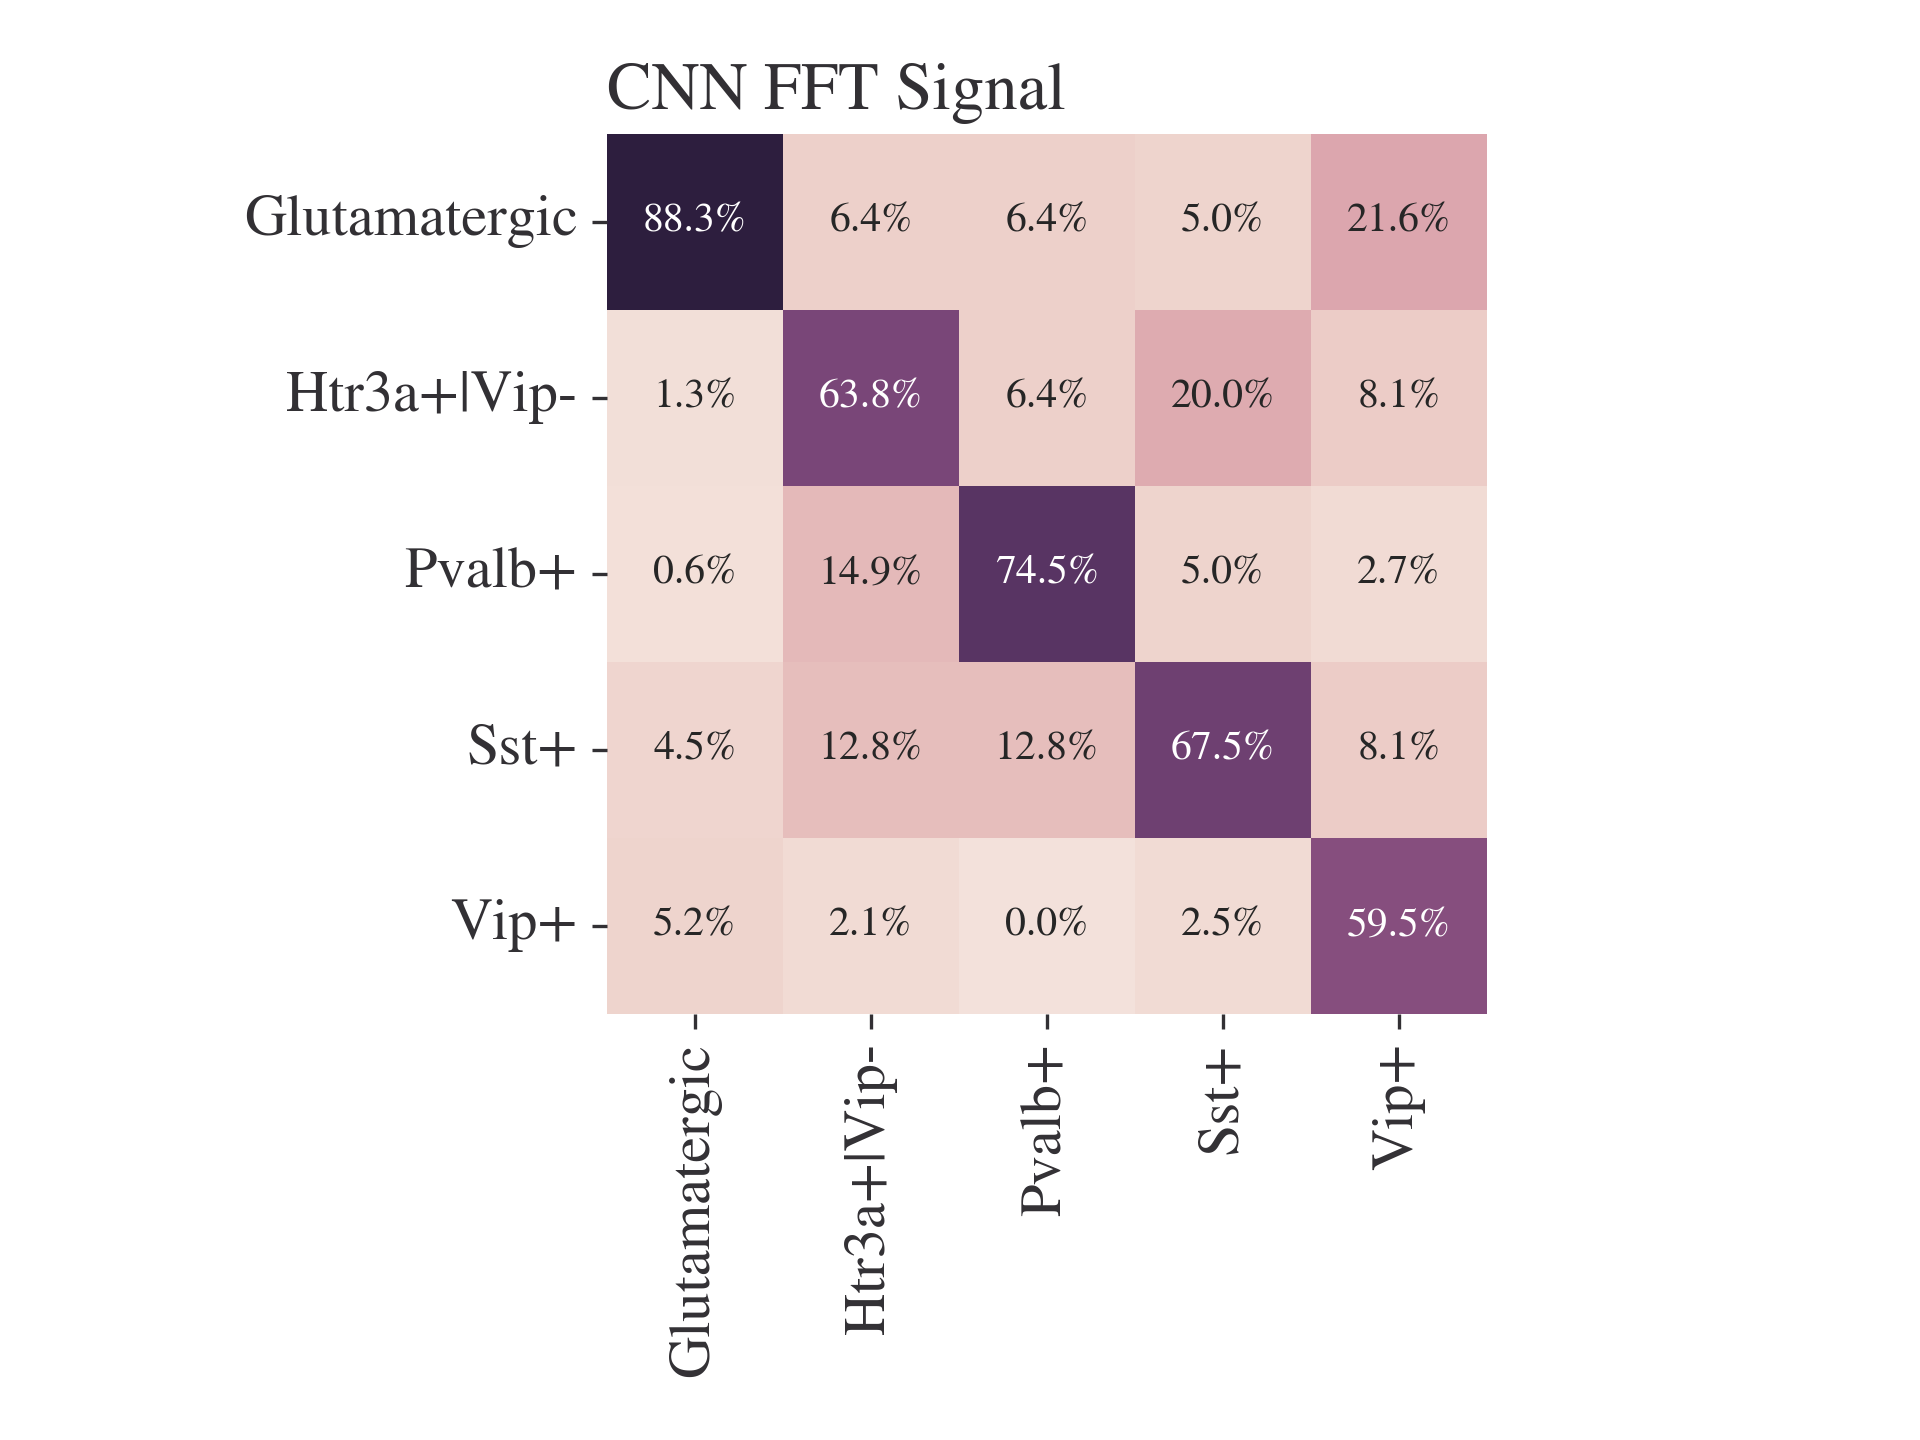
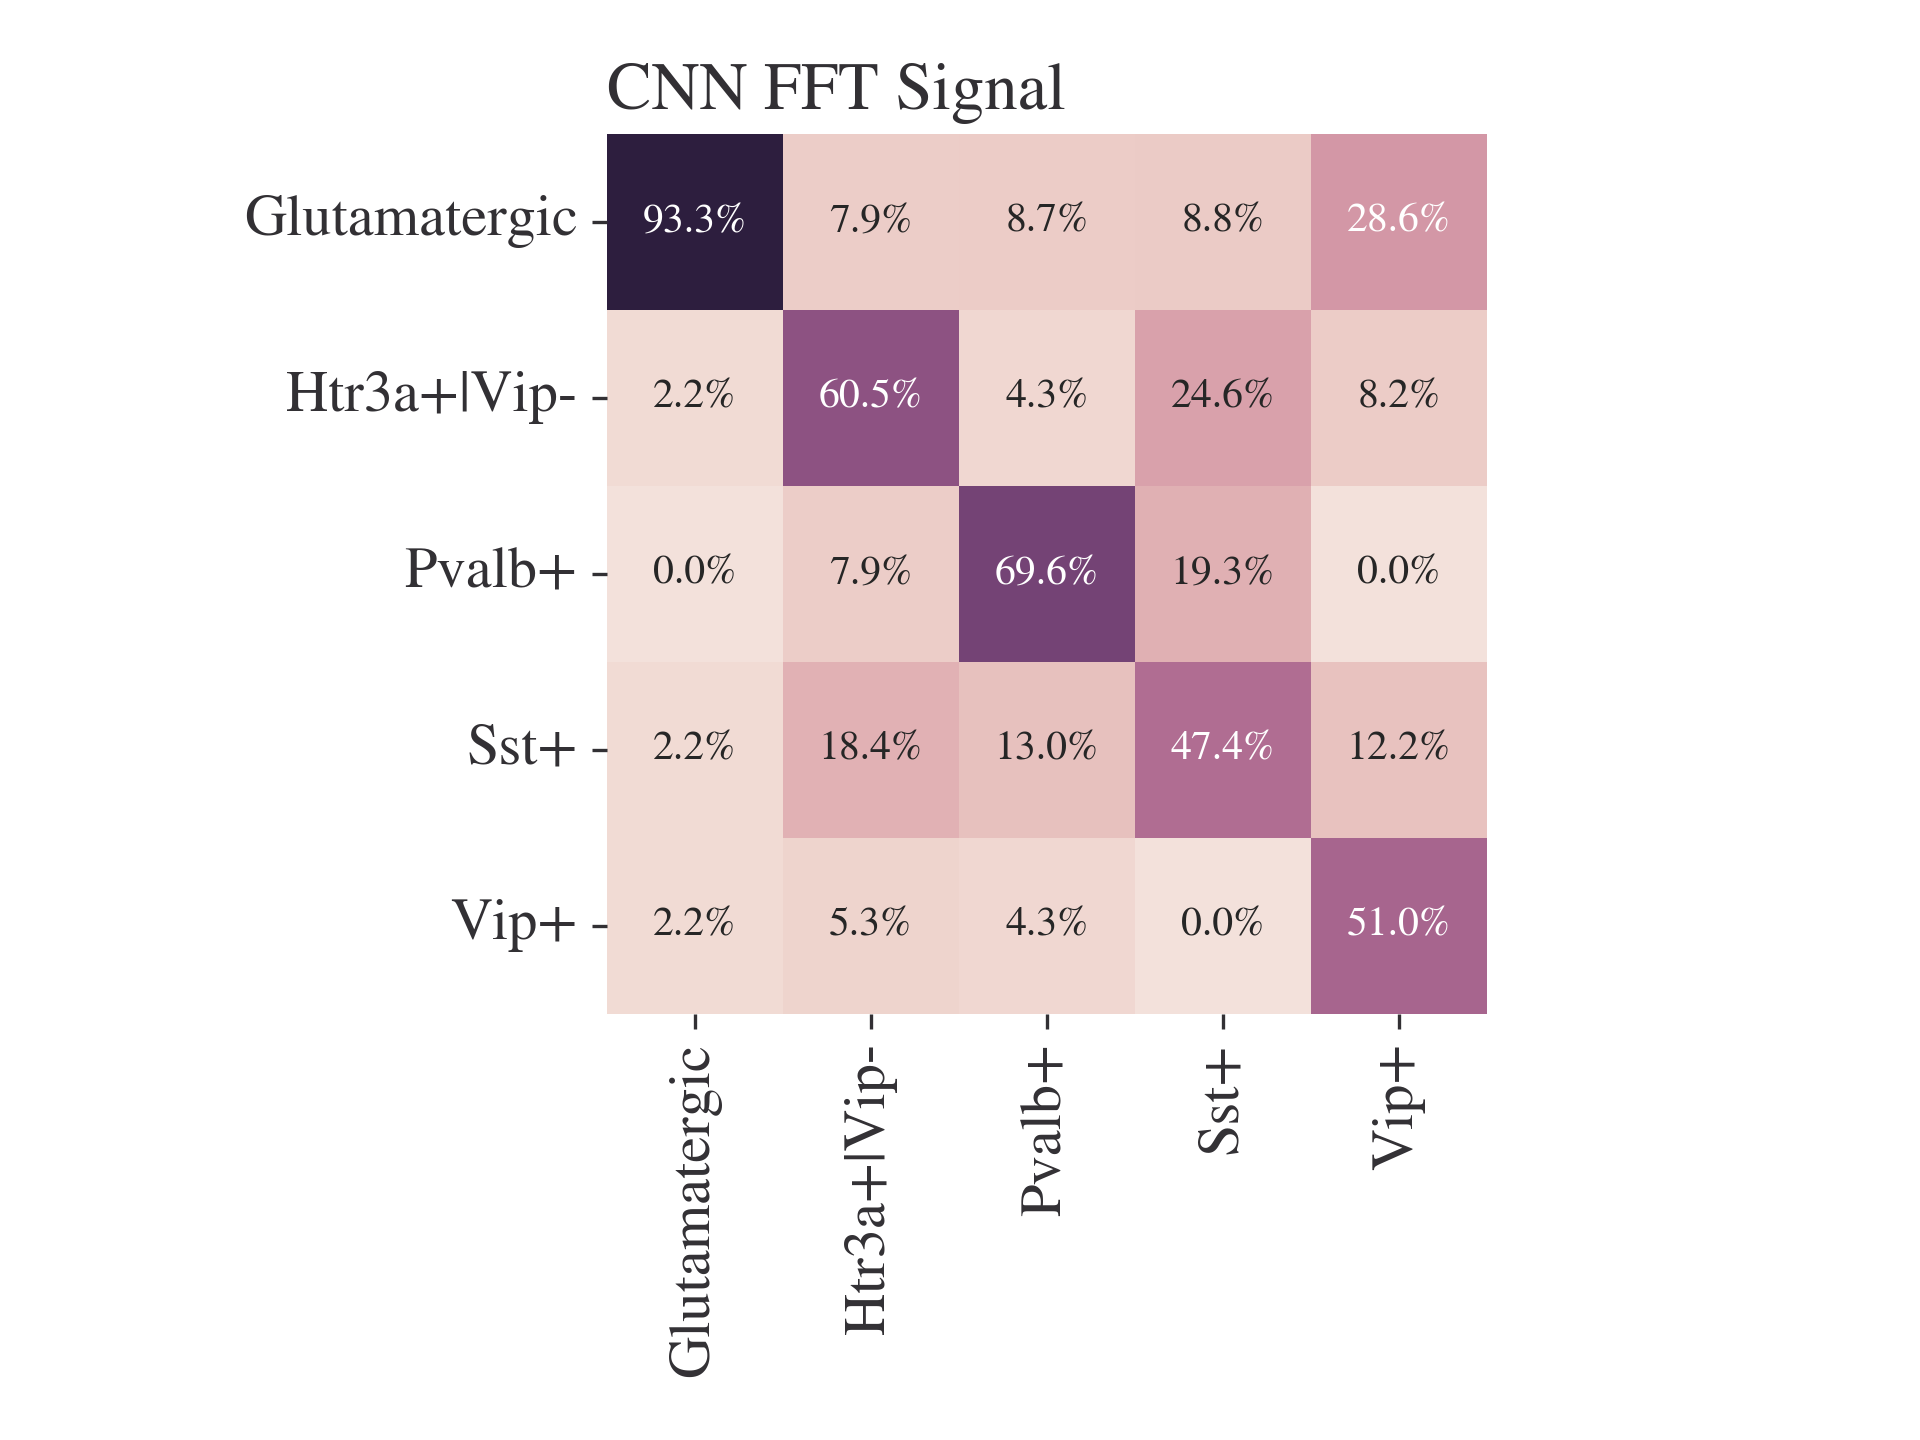
results for fft classification alone, 71.6% accuracy

diff --git a/single_spike_fft.py b/single_spike_fft.py
@@ -13,6 +13,7 @@ from sklearn.model_selection import train_test_split
 from sklearn.utils.class_weight import compute_class_weight
 from sklearn.metrics import confusion_matrix
 from keras.utils.np_utils import to_categorical
+from helper_functions import calculate_metrics_multiclass
 
 from gpu_check import get_device
 import warnings
@@ -35,7 +36,7 @@ class FrequencyAnalyzer:
     def __init__(self) -> None:
         self.x_train, self.x_test, self.y_train, self.y_test = self.process_data()
         self.model, self.best_model = self.create_model(), None
-        self.history = None
+        self.history, self.best_history = None, None
 
     @staticmethod
     def process_data(test_size: float = 0.2):
@@ -45,6 +46,7 @@ class FrequencyAnalyzer:
         labels = []
         for idx, directory in enumerate(directories):
             files = glob(data_path + directory + '/*')
+            files = sorted(files)
             arrays = [np.load(f) for f in files]
             for array in arrays:
                 if len(array) == 600:  # sampled at 200khz (before 2016)
@@ -108,7 +110,7 @@ class FrequencyAnalyzer:
 
         return Model(inputs=inputs, outputs=outputs)
 
-    def train_and_test(self, optimizer: str = 'adam', batch_size: int = 16,
+    def train(self, optimizer: str = 'adam', batch_size: int = 16,
                        epochs: int = 50):
         # compile the model
         self.model.compile(optimizer=optimizer,
@@ -117,12 +119,13 @@ class FrequencyAnalyzer:
 
         # create checkpoint so that the best epoch is saved
         checkpoint_filepath = '/tmp/checkpoint'
-        model_checkpoint_callback = tf.keras.callbacks.ModelCheckpoint(
+        checkpoint = tf.keras.callbacks.ModelCheckpoint(
             filepath=checkpoint_filepath,
             save_weights_only=True,
             monitor='val_accuracy',
             mode='max',
             save_best_only=True)
+        early_stopping = tf.keras.callbacks.EarlyStopping(monitor='val_loss', min_delta=0.00001, patience=15)
 
         # compute class weight
         y_integers = np.argmax(self.y_train, axis=1)
@@ -131,9 +134,9 @@ class FrequencyAnalyzer:
 
         # fit the model
         history = self.model.fit(x=self.x_train, y=self.y_train,
-                                      batch_size=batch_size, epochs=epochs,
-                                      validation_data=(self.x_test, self.y_test), shuffle=True,
-                                      callbacks=[model_checkpoint_callback], class_weight=d_class_weights, verbose=0)
+                                 batch_size=batch_size, epochs=epochs,
+                                 validation_data=(self.x_test, self.y_test), shuffle=True,
+                                 callbacks=[checkpoint, early_stopping], class_weight=d_class_weights, verbose=0)
 
         # The best model weights are loaded into the model
         self.model.load_weights(checkpoint_filepath)
@@ -142,6 +145,7 @@ class FrequencyAnalyzer:
     def callback(self, study, trial):
         if study.best_trial == trial:
             self.best_model = self.model
+            self.best_history = self.history
 
     def objective(self, trial):
         n_filters = trial.suggest_categorical("n_filters", ([256, 256, 256],
@@ -170,8 +174,12 @@ class FrequencyAnalyzer:
                                        pool_size=pool_size,
                                        activation=activation)
 
-        history = self.train_and_test(optimizer=optimizer, batch_size=batch_size, epochs=epochs)
-        return max(history.history['val_accuracy'])
+        self.history = self.train(optimizer=optimizer, batch_size=batch_size, epochs=epochs)
+        y_pred_proba = self.model.predict(x=self.x_test, verbose=0)
+        y_pred = np.argmax(y_pred_proba, axis=1)
+        y_true = np.argmax(self.y_test, axis=1)
+        accuracy, f1, precision, recall, roc_auc = calculate_metrics_multiclass(y_true, y_pred, y_pred_proba)
+        return f1
 
     def optimize(self, n_trials: int, n_jobs: int = 1):
         study = optuna.create_study(study_name='cnn_freq', direction='maximize')
@@ -189,6 +197,10 @@ class FrequencyAnalyzer:
         best_epochs = study.best_params['epochs']
 
         results = self.best_model.evaluate(x=self.x_test, y=self.y_test, verbose=2)
+        y_pred_proba = self.best_model.predict(x=self.x_test, verbose=0)
+        y_pred = np.argmax(y_pred_proba, axis=1)
+        y_true = np.argmax(self.y_test, axis=1)
+        accuracy, f1, precision, recall, roc_auc = calculate_metrics_multiclass(y_true, y_pred, y_pred_proba)
 
         print("********* Trial Finished *********")
         print("best_n_filters: {}".format(best_n_filters))
@@ -216,17 +228,17 @@ class FrequencyAnalyzer:
                 "best_optimizer: {}\n"
                 "best_batch_size: {}\n"
                 "best_epochs: {}\n"
-                "Validation loss: {}\n"
-                "Validation accuracy: {}".format(best_n_filters, best_n_units, best_n_conv1d_layers,
+                "Test accuracy: {}\n"
+                "Test f1: {}\n"
+                "Test precision: {}\n"
+                "Test recall: {}\n"
+                "Test roc auc: {}".format(best_n_filters, best_n_units, best_n_conv1d_layers,
                                                  best_n_dense_layers, best_kernel_size, best_stride_size,
                                                  best_pool_size, best_activation, best_optimizer, best_batch_size,
-                                                 best_epochs, results[0], results[1]))
+                                                 best_epochs, accuracy, f1, precision, recall, roc_auc))
 
-    def plot_results(self):
-        # plot the confusion matrix
-        y_pred = np.argmax(self.best_model.predict(self.x_test), axis=1)
-        y_true = np.argmax(self.y_test, axis=1)
-
+    @staticmethod
+    def plot_cm(y_pred, y_true):
         def reverse_labels(tup: tuple) -> list:
             return [class_names[x] for x in tup]
 
@@ -252,12 +264,64 @@ class FrequencyAnalyzer:
         """
         self.best_model.save(filepath=results_path + '/model')
 
+    def load_model(self) -> None:
+        """
+        load the best model from path.
+        """
+        self.best_model = tf.keras.models.load_model(filepath=results_path + '/model')
 
-def main():
+    def plot_history(self) -> None:
+        plt.figure(2)
+        plt.plot(self.best_history.history['accuracy'])
+        plt.plot(self.best_history.history['val_accuracy'])
+        plt.title('Accuracy vs. Epoch')
+        plt.ylabel('Accuracy')
+        plt.xlabel('Epoch')
+        plt.legend(['train acc', 'val acc'], loc='upper left')
+        plt.draw()
+        plt.savefig(results_path + "/accuracy_epoch.png")
+        plt.show()
+
+        plt.figure(3)
+        plt.plot(self.best_history.history['loss'])
+        plt.plot(self.best_history.history['val_loss'])
+        plt.title('Loss vs. Epoch')
+        plt.ylabel('Loss')
+        plt.xlabel('Epoch')
+        plt.legend(['train loss', 'val loss'], loc='upper left')
+        plt.draw()
+        plt.savefig(results_path + "/loss_epoch.png")
+        plt.show()
+
+
+def train_model():
     model = FrequencyAnalyzer()
     model.optimize(n_trials=100)
-    model.plot_results()
+    y_pred_proba = model.best_model.predict(x=model.x_test,  verbose=0)
+    y_pred = np.argmax(y_pred_proba, axis=1)
+    y_true = np.argmax(model.y_test, axis=1)
+    accuracy, f1, precision, recall, roc_auc = calculate_metrics_multiclass(y_true, y_pred, y_pred_proba)
+    print("Accuracy: {}\nF1: {}\nPrecision: {}\nRecall: {}\nAUC: {}".format(accuracy, f1, precision, recall, roc_auc))
+    model.plot_cm(y_pred, y_true)
+    model.plot_history()
     model.save_model()
+
+
+def test_model():
+    model = FrequencyAnalyzer()
+    model.load_model()
+    model.best_model.summary()
+    y_pred_proba = model.best_model.predict(x=model.x_test,  verbose=0)
+    y_pred = np.argmax(y_pred_proba, axis=1)
+    y_true = np.argmax(model.y_test, axis=1)
+    accuracy, f1, precision, recall, roc_auc = calculate_metrics_multiclass(y_true, y_pred, y_pred_proba)
+    print("Accuracy: {}\nF1: {}\nPrecision: {}\nRecall: {}\nAUC: {}".format(accuracy, f1, precision, recall, roc_auc))
+    model.plot_cm(y_pred, y_true)
+
+
+def main():
+    train_model()
+    test_model()
 
 
 if __name__ == '__main__':
